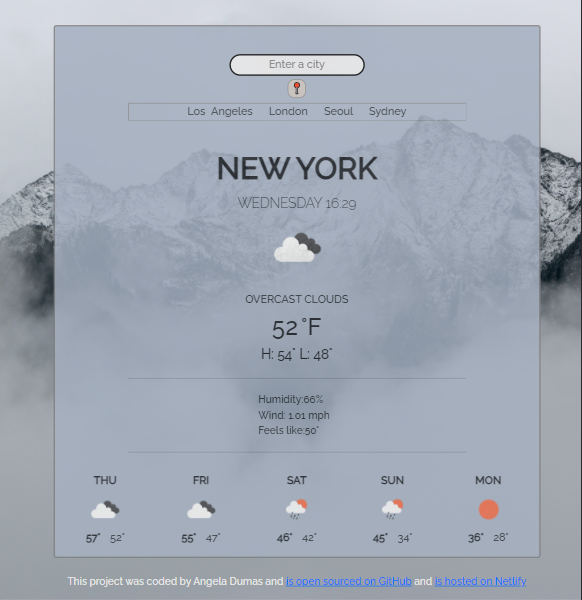
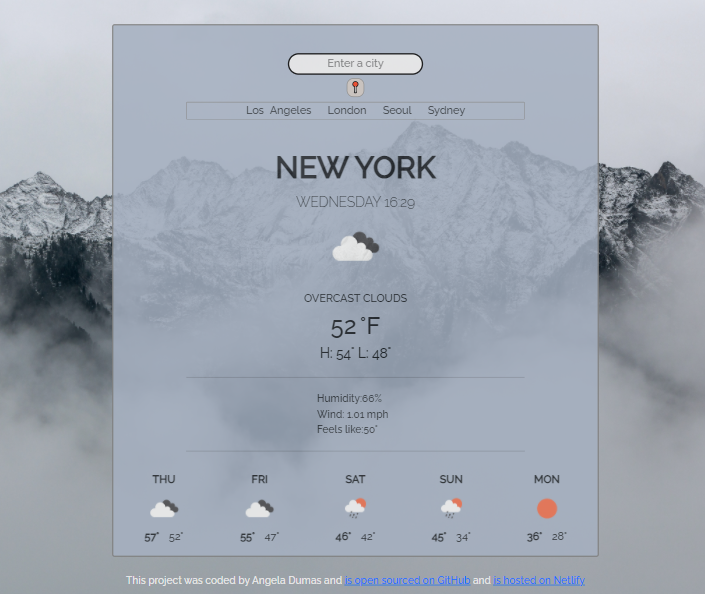
Changed and added pictures, fixed h2 to reflect information provided, adjusted spacing around elements and added to media query to improve responsiveness

diff --git a/index.html b/index.html
@@ -57,11 +57,11 @@
       </div>
       <div class="row mb-5">
         <div class="col d-none d-lg-block">
-          <img src="images/catproject.png" class="img-fluid rounded" />
+          <img src="images/weatherapp.png" class="img-fluid rounded" />
         </div>
         <div class="col">
           <div class="project-description">
-            <h2 class="mb-4">Cat project</h2>
+            <h2 class="mb-4">Weather app</h2>
             <p class="mb-5 text-muted">
               Project designed for SheCodes Basic workshop using HTML,CSS and
               JavaScript to code a static page on a topic of our choice. It was
@@ -72,13 +72,32 @@
           </div>
         </div>
       </div>
-      <div class="row mb-5">
+      <div class="row mb-4">
         <div class="col d-none d-lg-block">
-          <img src="images/catproject.png" class="img-fluid rounded" />
+          <img src="images/dictionary.png" class="img-fluid rounded" />
         </div>
         <div class="col">
           <div class="project-description">
-            <h2 class="mb-4">Cat project</h2>
+            <h2 class="mb-4">Dictionary project</h2>
+            <p class="mb-5 text-muted">
+              Project designed for SheCodes Basic workshop using HTML,CSS and
+              JavaScript to code a static page on a topic of our choice. It was
+              my first coding attempt, and chose to do it on cats as they are
+              often misunderstood.
+            </p>
+            <a href="" class="btn btn-branding-outline">Learn More</a>
+          </div>
+        </div>
+      </div>
+      <hr />
+      <p class="feature text-center m-3">Get to know me</p>
+      <div class="row mb-5">
+        <div class="col d-none d-lg-block">
+          <img src="images/hobbies.png" class="img-fluid rounded pt-5" />
+        </div>
+        <div class="col">
+          <div class="project-description">
+            <h2 class="mb-4">Hobbies</h2>
             <p class="mb-5 text-muted">
               Project designed for SheCodes Basic workshop using HTML,CSS and
               JavaScript to code a static page on a topic of our choice. It was

diff --git a/src/portfolio.css b/src/portfolio.css
@@ -67,6 +67,7 @@ p {
   color: var(--branding-color);
   border: 1px solid var(--branding-color);
   font-weight: 500;
+  background-color: var(--secondary-color);
 }
 .project-description {
   padding: 120px 60px;
@@ -75,5 +76,17 @@ p {
   .project-description {
     padding: 0;
     text-align: center;
+  }
+  .hero h1 {
+    font-size: 56px;
+  }
+  .hero h2 {
+    font-size: 28px;
+  }
+  .hero p {
+    font-size: 24px;
+  }
+  h2 {
+    font-size: 40px;
   }
 }
